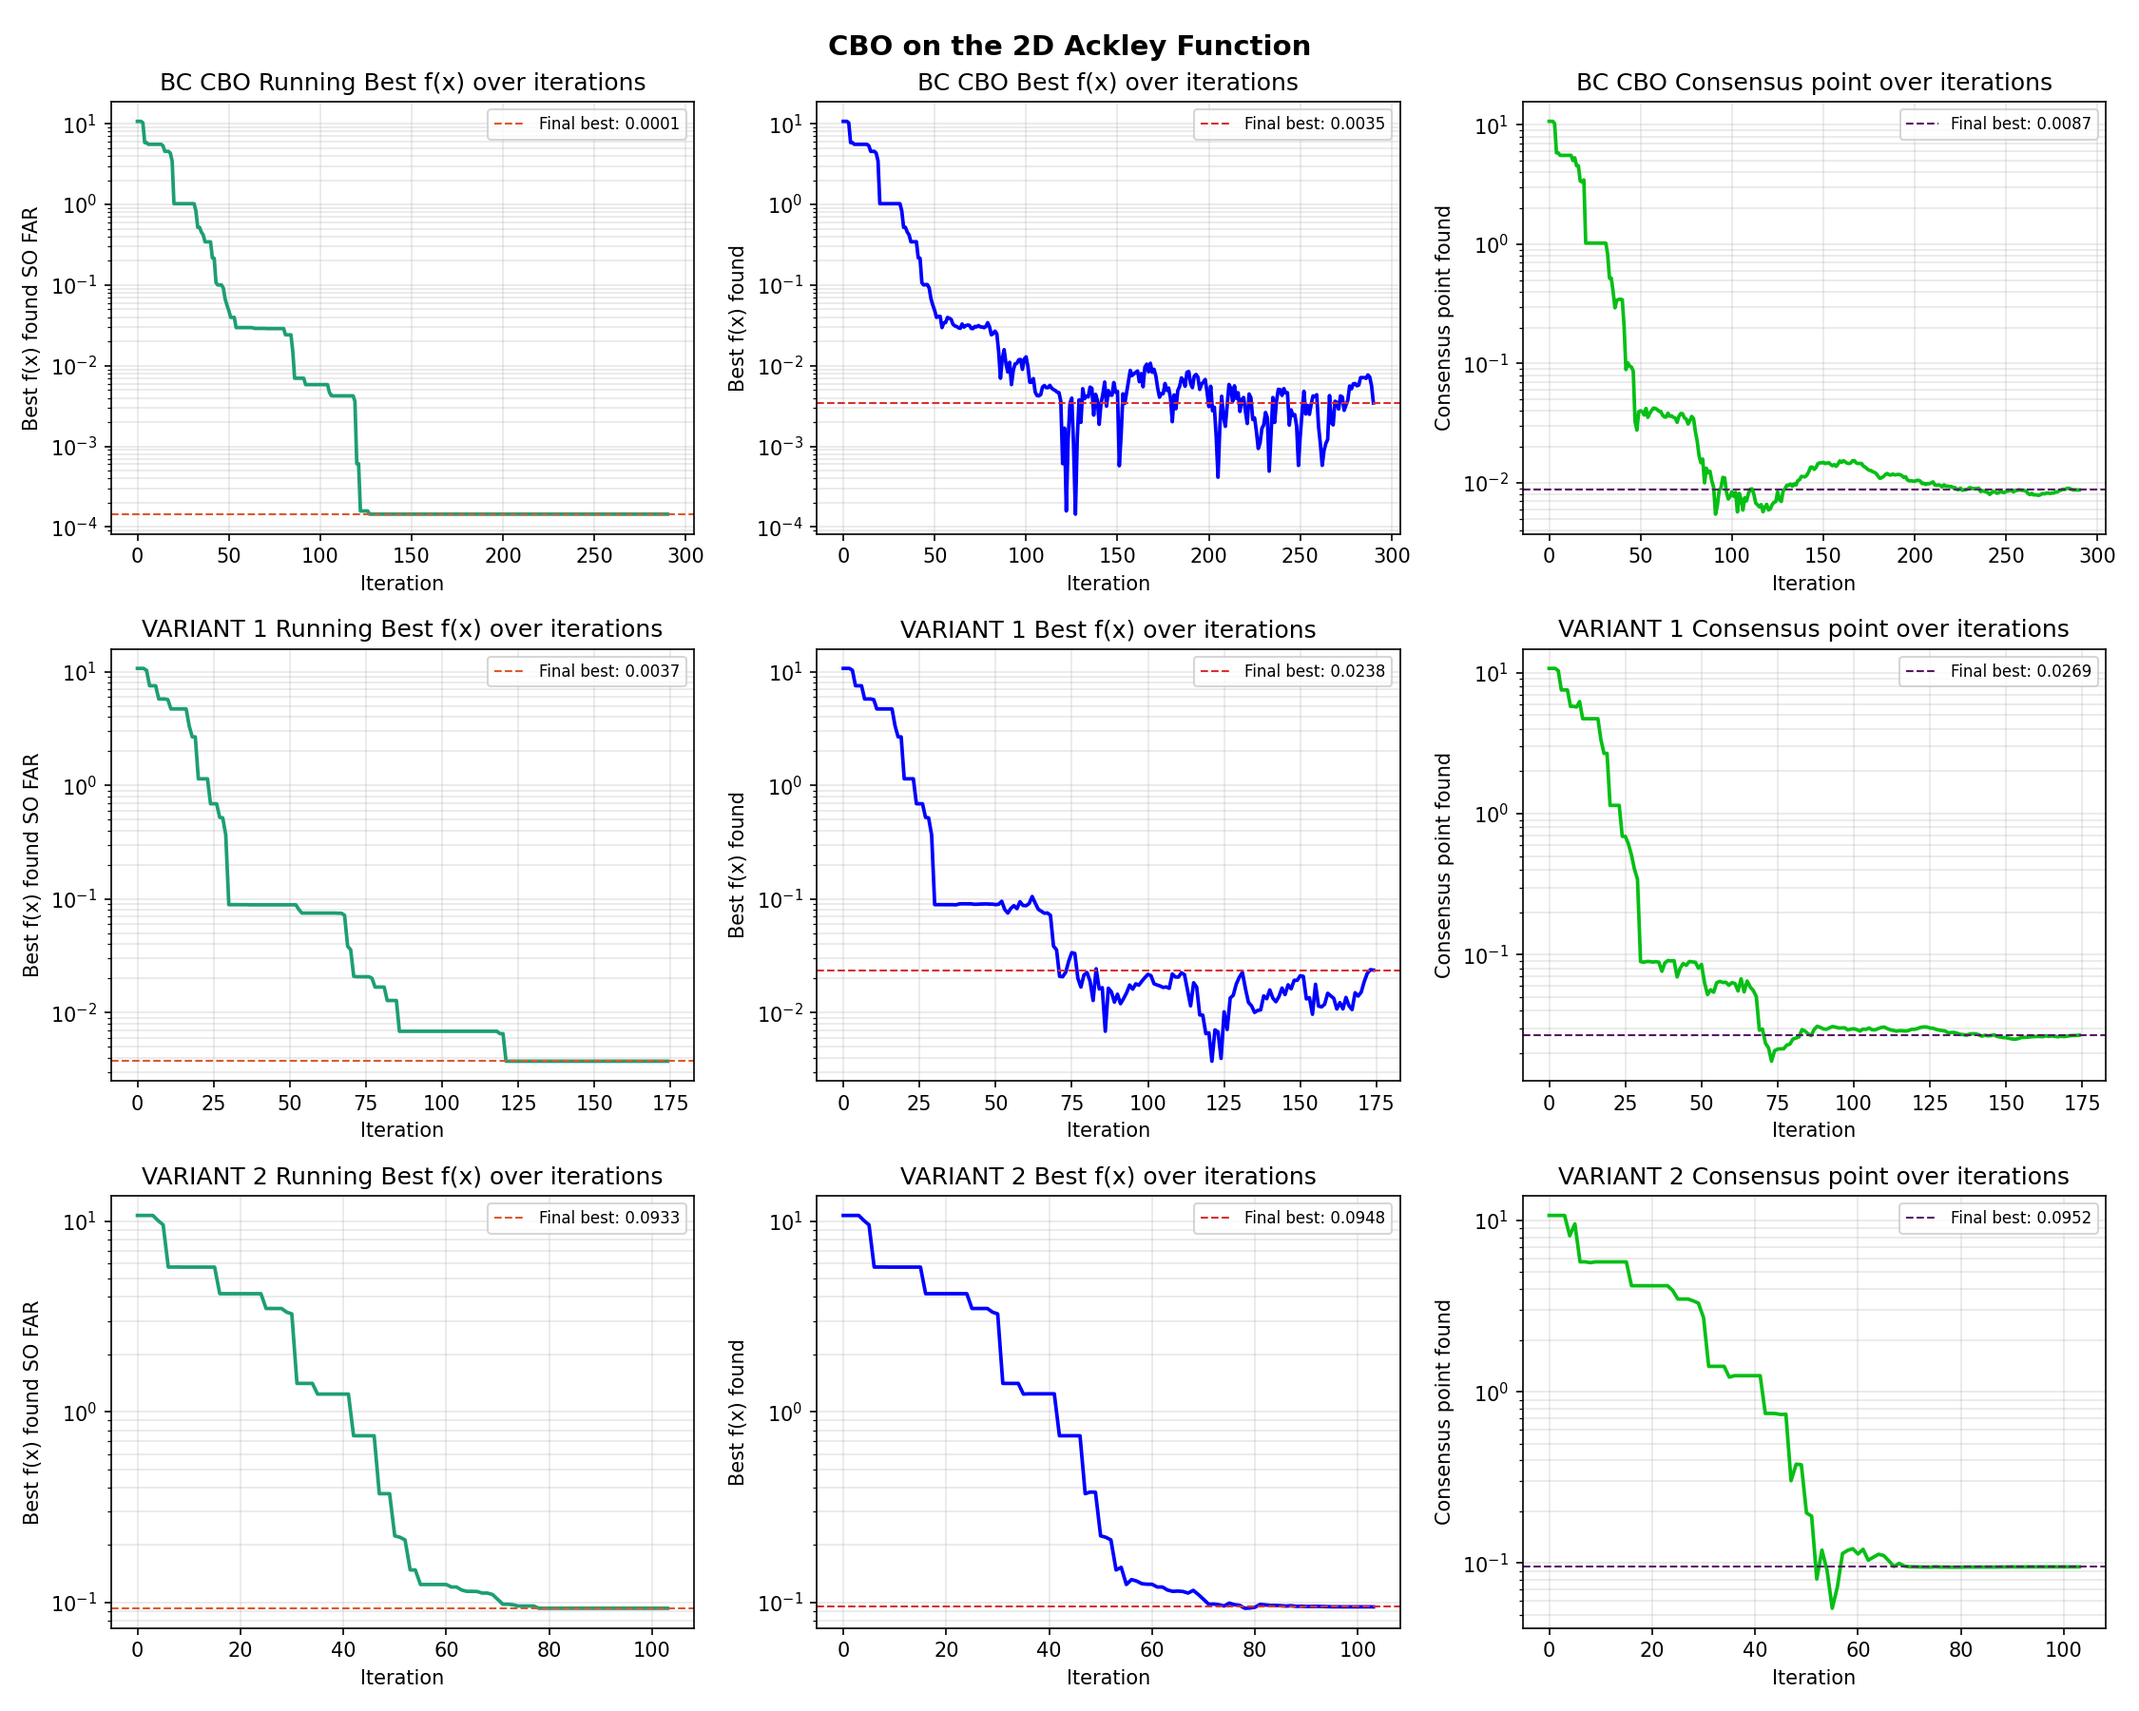
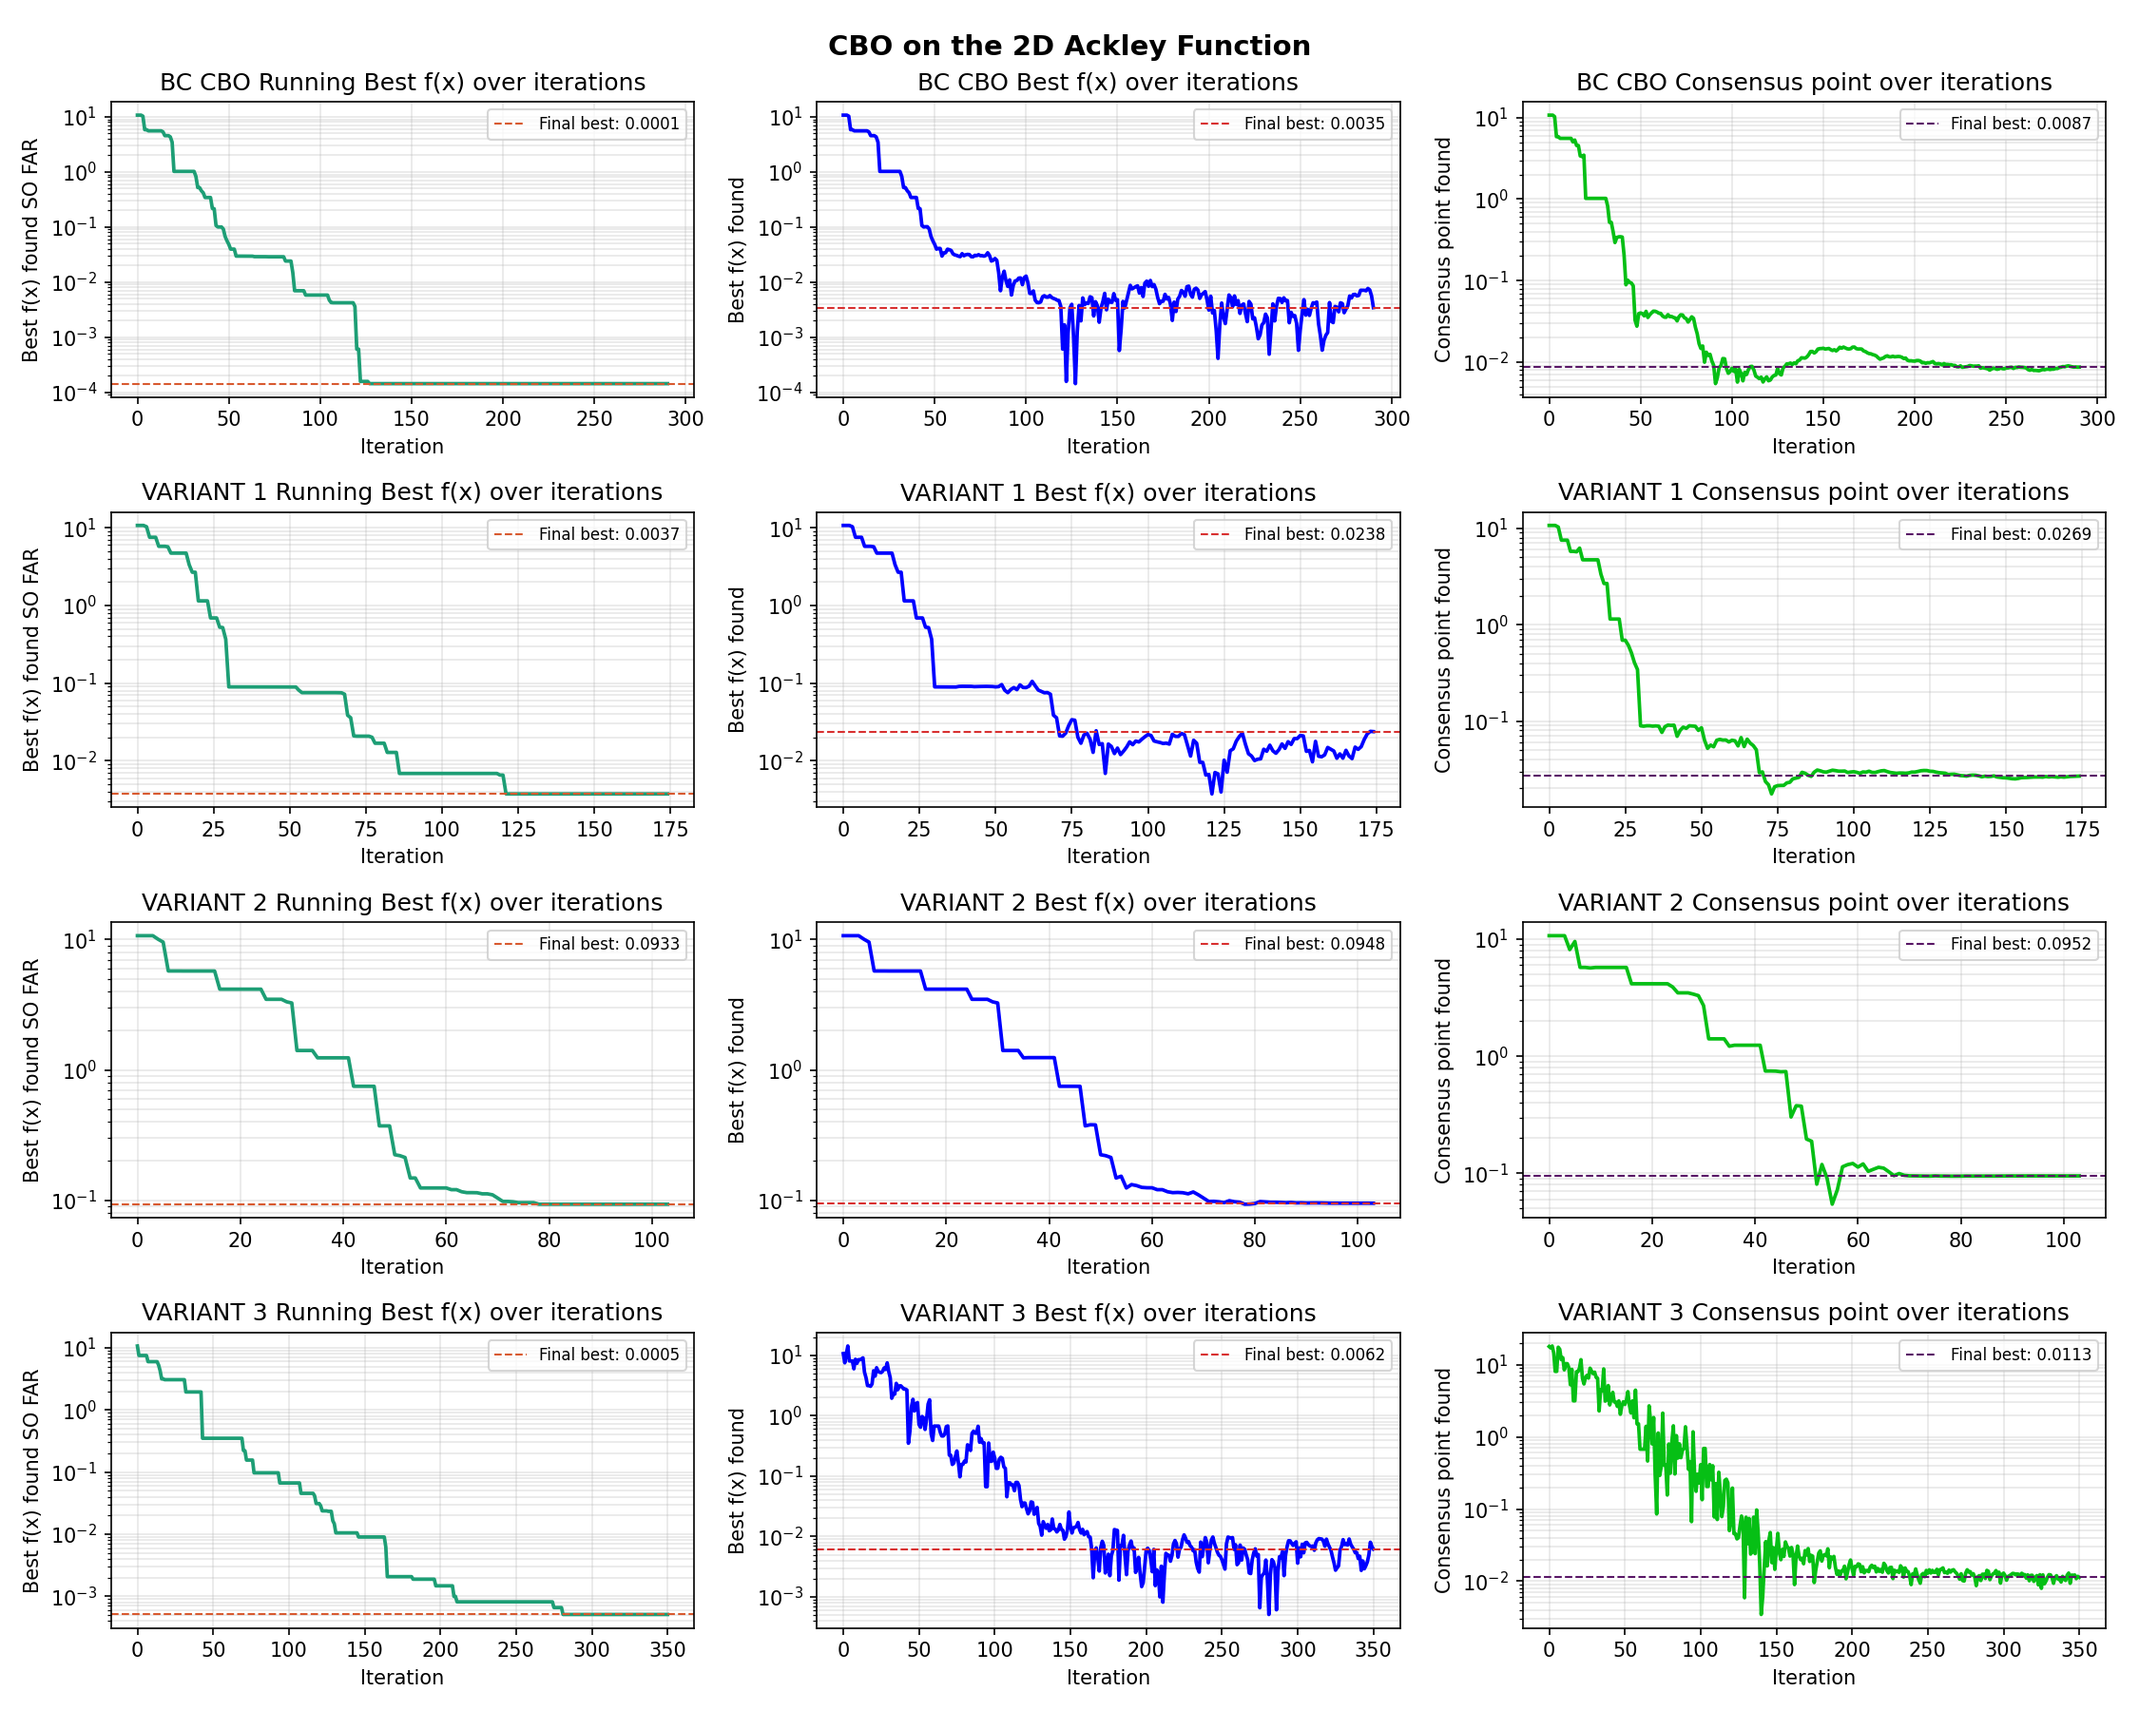
variant 3 additions

diff --git a/obj_val_plot.py b/obj_val_plot.py
@@ -5,6 +5,7 @@ import matplotlib.colors as mcolors
 from bc_algorithms import ackley, cbo
 from variant_1 import component_wise_diff
 from variant_2 import common_noise
+from variant_3 import random_mini_batch
 
 
 def grid(res):
@@ -60,19 +61,23 @@ def main():
     fig.suptitle("CBO on the 2D Ackley Function", fontsize=14, fontweight="bold")
 
     # 2x2 figure panels
-    ax1 = fig.add_subplot(3,3,1)
-    ax2 = fig.add_subplot(3,3,2)
-    ax3 = fig.add_subplot(3,3,3)
-    ax4 = fig.add_subplot(3,3,4)
-    ax5 = fig.add_subplot(3,3,5)
-    ax6 = fig.add_subplot(3,3,6)
-    ax7 = fig.add_subplot(3,3,7)
-    ax8 = fig.add_subplot(3,3,8)
-    ax9 = fig.add_subplot(3,3,9)
+    ax1 = fig.add_subplot(4,3,1)
+    ax2 = fig.add_subplot(4,3,2)
+    ax3 = fig.add_subplot(4,3,3)
+    ax4 = fig.add_subplot(4,3,4)
+    ax5 = fig.add_subplot(4,3,5)
+    ax6 = fig.add_subplot(4,3,6)
+    ax7 = fig.add_subplot(4,3,7)
+    ax8 = fig.add_subplot(4,3,8)
+    ax9 = fig.add_subplot(4,3,9)
+    ax10 = fig.add_subplot(4,3,10)
+    ax11 = fig.add_subplot(4,3,11)
+    ax12 = fig.add_subplot(4,3,12)
 
     _, cbo_best_val, cbo_consensus_hist, _, cbo_obj_val_hist, cbo_best_val_hist, _ = cbo(ackley, d=2, seed=0)
     _, var1_best_val, var1_consensus_hist, _, var1_obj_val_hist, var1_best_val_hist, _ = component_wise_diff(ackley, d=2, seed=0)
     _, var2_best_val, var2_consensus_hist, _, var2_obj_val_hist, var2_best_val_hist, _ = common_noise(ackley, d=2, seed=0)
+    _, var3_best_val, var3_consensus_hist, _, var3_obj_val_hist, var3_best_val_hist, _ = random_mini_batch(ackley, d=2, seed=0)
 
     # plot graphs
     # running best obj val history
@@ -82,6 +87,8 @@ def main():
     ax4.set_title("VARIANT 1 Running Best f(x) over iterations")
     best_obj_val_hist(ax7, var2_best_val_hist, var2_best_val)
     ax7.set_title("VARIANT 2 Running Best f(x) over iterations")
+    best_obj_val_hist(ax10, var3_best_val_hist, var3_best_val)
+    ax10.set_title("VARIANT 3 Running Best f(x) over iterations")
 
     # obj value history
     obj_val_hist(ax2, cbo_obj_val_hist)
@@ -90,6 +97,8 @@ def main():
     ax5.set_title("VARIANT 1 Best f(x) over iterations")
     obj_val_hist(ax8, var2_obj_val_hist)
     ax8.set_title("VARIANT 2 Best f(x) over iterations")
+    obj_val_hist(ax11, var3_obj_val_hist)
+    ax11.set_title("VARIANT 3 Best f(x) over iterations")
 
     # consensus point history
     consensus_hist(ax3, cbo_consensus_hist)
@@ -98,6 +107,8 @@ def main():
     ax6.set_title("VARIANT 1 Consensus point over iterations")
     consensus_hist(ax9, var2_consensus_hist)
     ax9.set_title("VARIANT 2 Consensus point over iterations")
+    consensus_hist(ax12, var3_consensus_hist)
+    ax12.set_title("VARIANT 3 Consensus point over iterations")
 
 
     plt.tight_layout()

diff --git a/variance_plot.py b/variance_plot.py
@@ -5,6 +5,7 @@ import matplotlib.colors as mcolors
 from bc_algorithms import ackley, cbo
 from variant_1 import component_wise_diff
 from variant_2 import common_noise
+from variant_3 import random_mini_batch
 
 
 def grid(res):
@@ -39,18 +40,21 @@ def main():
     ax1 = fig.add_subplot(2,2,1)
     ax2 = fig.add_subplot(2,2,2)
     ax3 = fig.add_subplot(2,2,3)
-    # ax4 = fig.add_subplot(2,2,4)
+    ax4 = fig.add_subplot(2,2,4)
 
     # plot graphs
     _, _, _, _, _, _, cbo_var_hist = cbo(ackley, d=2, seed=0)
     _, _, _, _, _, _, var1_var_hist = component_wise_diff(ackley, d=2, seed=0)
     _, _, _, _, _, _, var2_var_hist = common_noise(ackley, d=2, seed=0)
+    _, _, _, _, _, _, var3_var_hist = random_mini_batch(ackley, d=2, seed=0)
     variance_hist(ax1, cbo_var_hist, len(cbo_var_hist))
     ax1.set_title("BC CBO Variance")
     variance_hist(ax2, var1_var_hist, len(var1_var_hist))
     ax2.set_title("VARIANT 1 Variance w/ Component-Wise Diffusion")
     variance_hist(ax3, var2_var_hist, len(var2_var_hist))
     ax3.set_title("VARIANT 2 Variance w/ Component-Wise Diffusion & Common Noise")
+    variance_hist(ax4, var3_var_hist, len(var3_var_hist))
+    ax4.set_title("VARIANT 3 Variance using Random Mini Batches")
 
 
     plt.tight_layout()

diff --git a/trajectories_plot.py b/trajectories_plot.py
@@ -5,6 +5,7 @@ import matplotlib.colors as mcolors
 from bc_algorithms import ackley, cbo
 from variant_1 import component_wise_diff
 from variant_2 import common_noise
+from variant_3 import random_mini_batch
 
 
 def grid(res):
@@ -52,18 +53,21 @@ def main():
     ax1 = fig.add_subplot(2,2,1)
     ax2 = fig.add_subplot(2,2,2)
     ax3 = fig.add_subplot(2,2,3)
-    # ax4 = fig.add_subplot(2,2,4)
+    ax4 = fig.add_subplot(2,2,4)
 
     # plot graphs
     _, _, _, cbo_part_hist, _, _, _ = cbo(ackley, d=2, seed=0)
     _, _, _, var1_part_hist, _, _, _ = component_wise_diff(ackley, d=2, seed=0)
     _, _, _, var2_part_hist, _, _, _ = common_noise(ackley, d=2, seed=0)
+    _, _, _, var3_part_hist, _, _, _ = random_mini_batch(ackley, d=2, seed=0)
     particle_hist(ax1, cbo_part_hist)
     ax1.set_title("BC CBO Particle Trajectories")
     particle_hist(ax2, var1_part_hist)
     ax2.set_title("VARIANT 1 Particle Trajectories w/ Component-Wise Diffusion")
     particle_hist(ax3, var2_part_hist)
     ax3.set_title("VARIANT 2 Particle Trajectories w/ Component-Wise Diffusion & Common Noise")
+    particle_hist(ax4, var3_part_hist)
+    ax4.set_title("VARIANT 3 Particle Trajectories using Random Mini Batches")
 
 
     plt.tight_layout()
